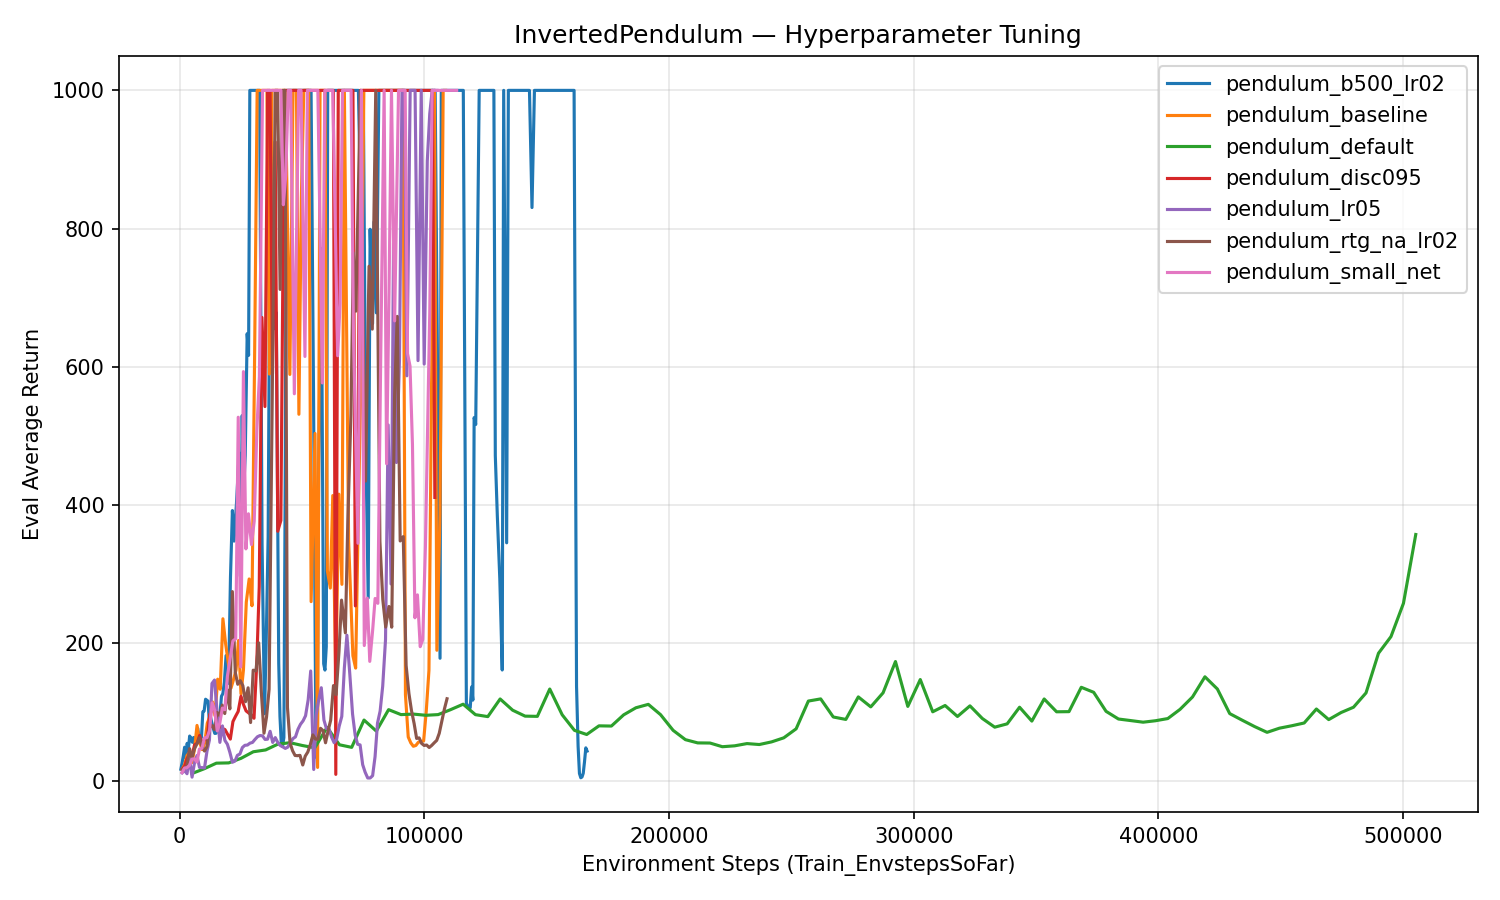
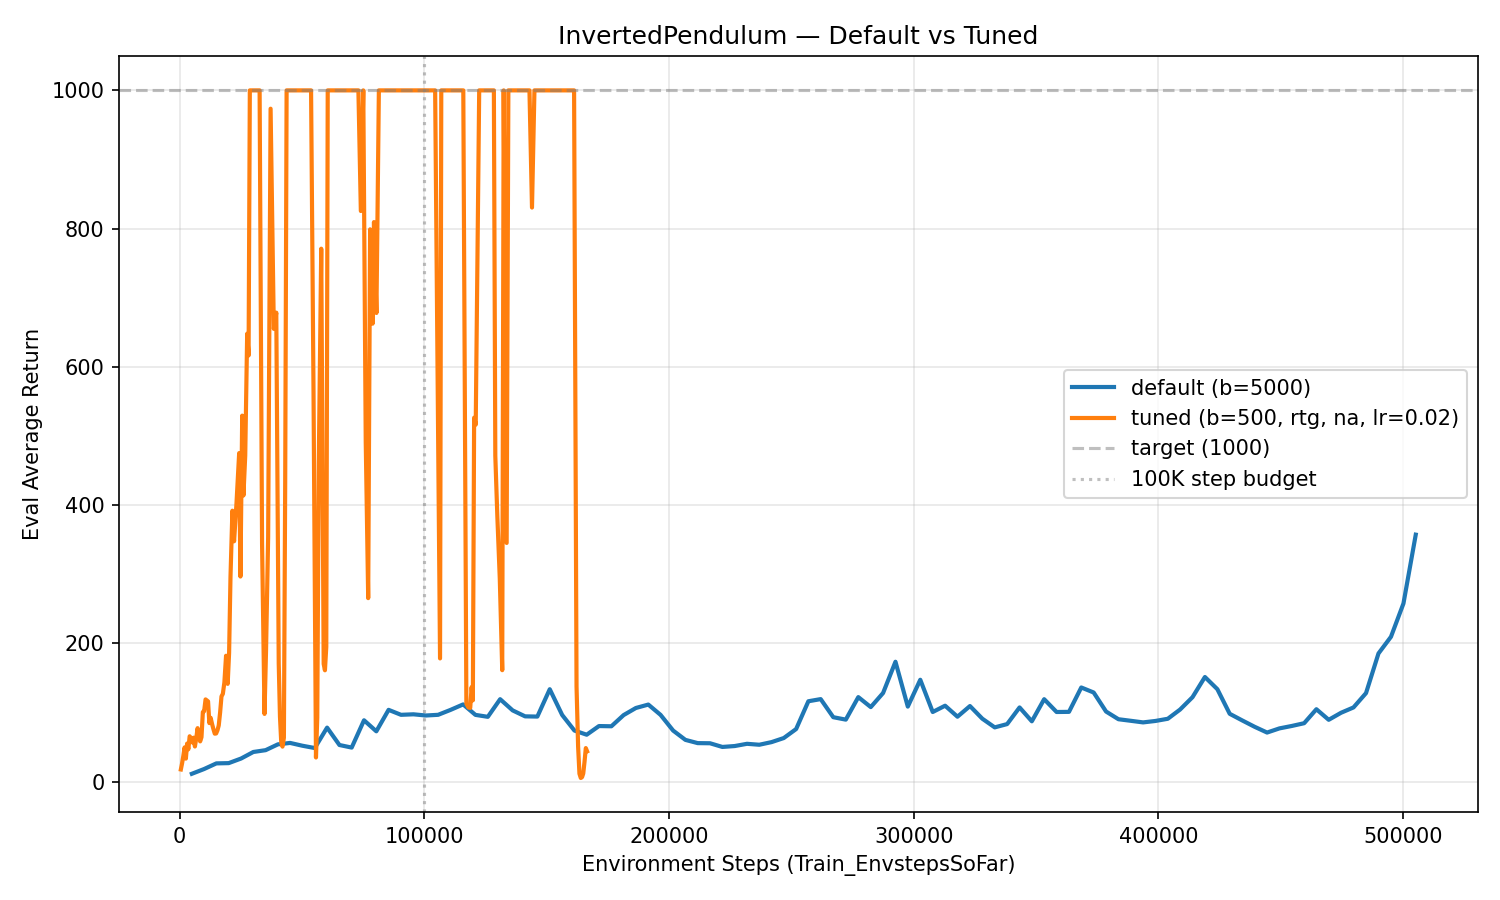
hw2 section 6 completed

diff --git a/hw2/plot.py b/hw2/plot.py
@@ -159,10 +159,37 @@ def plot_section5():
 
 
 def plot_section6():
-    """Experiment 4: InvertedPendulum — default vs tuned hyperparameters."""
+    """Experiment 4: InvertedPendulum — default vs best tuned run."""
     print("\n=== Section 6: InvertedPendulum ===")
 
-    # Find all pendulum runs
+    # Plot 1: Clean comparison — default vs best tuned run
+    # Change "pendulum_b500_lr02" to your best run if different
+    best_prefix = "InvertedPendulum-v4_pendulum_b500_lr02_sd"
+    default_prefix = "InvertedPendulum-v4_pendulum_default_sd"
+
+    prefixes = [default_prefix, best_prefix]
+    labels = ["default (b=5000)", "tuned (b=500, rtg, na, lr=0.02)"]
+
+    plt.figure(figsize=(10, 6))
+    for prefix, label in zip(prefixes, labels):
+        x, y = load_run(prefix)
+        if x is not None:
+            plt.plot(x, y, label=label, linewidth=2)
+
+    plt.axhline(y=1000, color='gray', linestyle='--', alpha=0.5, label='target (1000)')
+    plt.axvline(x=100000, color='gray', linestyle=':', alpha=0.5, label='100K step budget')
+    plt.xlabel("Environment Steps (Train_EnvstepsSoFar)")
+    plt.ylabel("Eval Average Return")
+    plt.title("InvertedPendulum — Default vs Tuned")
+    plt.legend()
+    plt.grid(True, alpha=0.3)
+    plt.tight_layout()
+    save_path = os.path.join(FIG_DIR, "pendulum_comparison.png")
+    plt.savefig(save_path, dpi=150)
+    plt.close()
+    print(f"  Saved: {save_path}")
+
+    # Plot 2: All tuning runs (for reference)
     pattern = os.path.join(EXP_DIR, "InvertedPendulum-v4_pendulum*", "log.csv")
     matches = sorted(glob.glob(pattern))
 
@@ -173,19 +200,20 @@ def plot_section6():
     plt.figure(figsize=(10, 6))
     for path in matches:
         df = pd.read_csv(path)
-        # Extract experiment name from directory
         exp_name = os.path.basename(os.path.dirname(path))
-        # Shorten label: extract just the part after "InvertedPendulum-v4_"
         label = exp_name.split("InvertedPendulum-v4_")[1].rsplit("_sd", 1)[0]
         plt.plot(df["Train_EnvstepsSoFar"], df["Eval_AverageReturn"], label=label)
 
+    plt.axhline(y=1000, color='gray', linestyle='--', alpha=0.5)
+    plt.axvline(x=100000, color='gray', linestyle=':', alpha=0.5)
+    plt.xlim(0, 150000)  # zoom into the 100K region
     plt.xlabel("Environment Steps (Train_EnvstepsSoFar)")
     plt.ylabel("Eval Average Return")
-    plt.title("InvertedPendulum — Hyperparameter Tuning")
-    plt.legend()
+    plt.title("InvertedPendulum — All Tuning Runs (zoomed to 150K steps)")
+    plt.legend(fontsize=8)
     plt.grid(True, alpha=0.3)
     plt.tight_layout()
-    save_path = os.path.join(FIG_DIR, "pendulum_comparison.png")
+    save_path = os.path.join(FIG_DIR, "pendulum_all_runs.png")
     plt.savefig(save_path, dpi=150)
     plt.close()
     print(f"  Saved: {save_path}")

diff --git a/hw2/report.md b/hw2/report.md
@@ -154,18 +154,26 @@ lambda=0 uses only the 1-step TD error (delta_t = r_t + gamma * V(s_{t+1}) - V(s
 ```bash
 # Default
 uv run src/scripts/run.py --env_name InvertedPendulum-v4 -n 100 -b 5000 -eb 1000 \
-    --exp_name pendulum
+    --exp_name pendulum_default
 
 # Best hyperparameters
-# TODO: Add your tuned command here
+uv run src/scripts/run.py --env_name InvertedPendulum-v4 -n 200 -b 500 -eb 1000 \
+    -rtg -na -lr 0.02 --exp_name pendulum_b500_lr02
 ```
 
 ### Best Hyperparameters
 
-> TODO: List the hyperparameters you changed and briefly discuss which ones mattered most in your tuning process.
+The most impactful change was **reducing the batch size** from 5000 to 500. The default uses 100 iterations * 5000 steps = 500K total environment steps, but only gets one gradient update per 5000 steps. By reducing to b=500 with n=200, we get 200 gradient updates within 100K total steps — 4x more learning per step budget.
+
+The other changes that helped:
+- **Reward-to-go (`-rtg`)**: Reduces variance by only crediting actions for future rewards, not past ones.
+- **Advantage normalization (`-na`)**: Ensures a balanced gradient signal (some actions reinforced, some discouraged) rather than pushing all actions in the same direction.
+- **Higher learning rate (`-lr 0.02`)**: Since InvertedPendulum is a simple task, a higher learning rate allows faster convergence without instability. The default 0.005 is too conservative.
+
+Batch size mattered the most — it determines how many gradient updates you get within the 100K step budget. The variance reduction tricks (rtg, na) and learning rate were secondary but still contributed to faster convergence.
 
 ### Learning Curves
 
 ![InvertedPendulum comparison](figures/pendulum_comparison.png)
 
-> TODO: Show your tuned run reaching return of 1000 within 100K environment steps, compared to the default setting.
+The tuned run reaches a return of 1000 within ~20K-30K environment steps, well under the 100K budget. The default run (b=5000) only reaches ~350 after 500K steps and never hits 1000.
